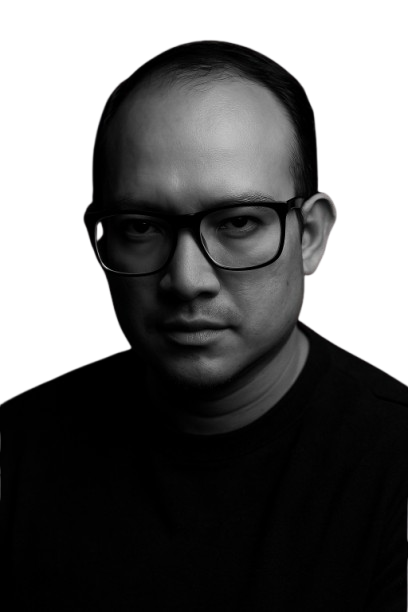
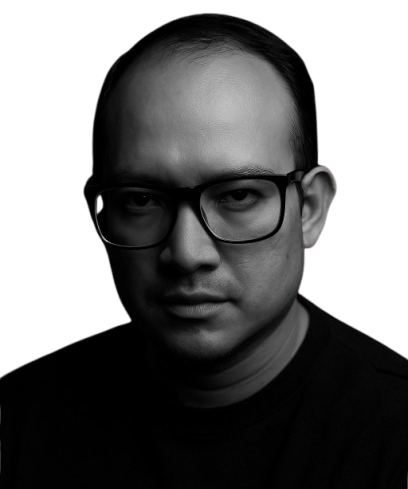
Profile Picture Cropted

diff --git a/styles.css b/styles.css
@@ -267,7 +267,7 @@ h1 {
         align-items: flex-end;
 
         img {
-            margin-top: -45px;
+            margin-top: -35px;
             max-width: 420px;
             /*margin-bottom: -10px; */
             
